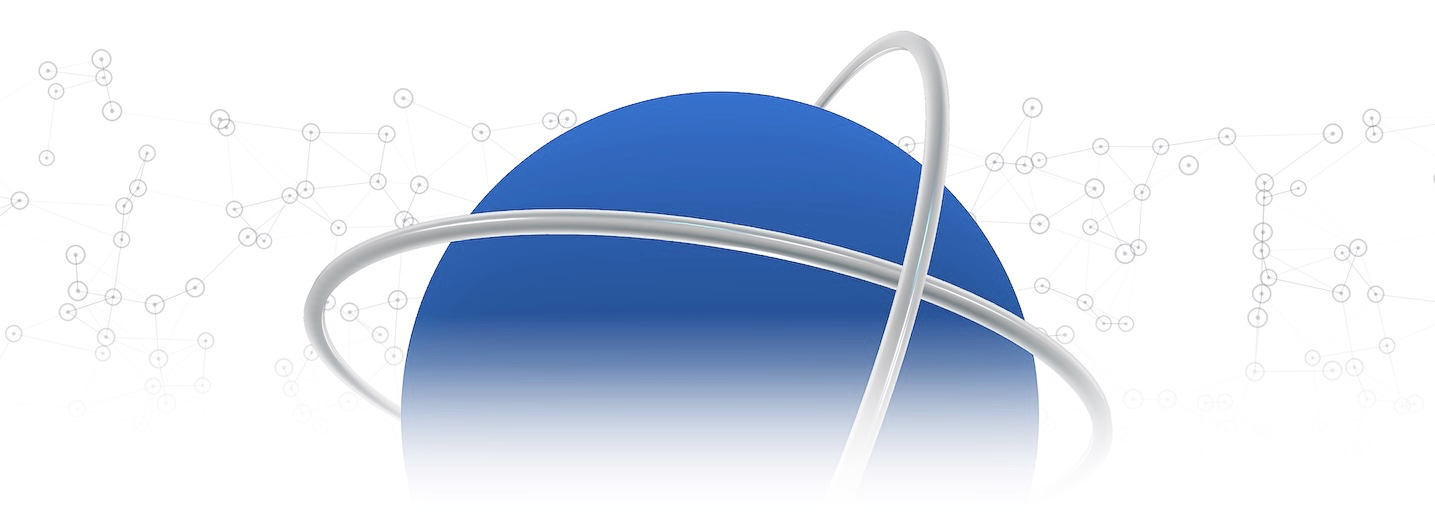
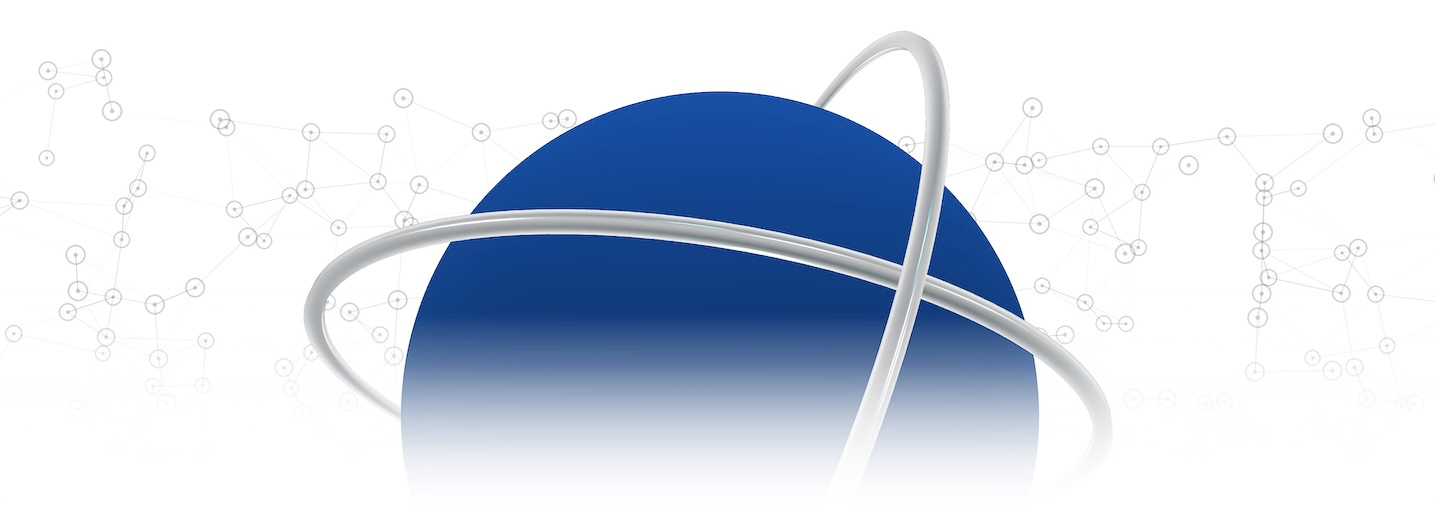
fix: match hero colors to header artwork

Changed region(s): [[0.276, 0.1553, 0.7052, 0.6835], [0.7052, 0.5903, 0.7359, 0.6214]]

diff --git a/src/components/planet-graphic/index.tsx b/src/components/planet-graphic/index.tsx
@@ -129,10 +129,11 @@ function applyPlanetTheme(
   isDark: boolean,
 ) {
   const s = refs;
-  s.sphereMat.uniforms.topColor.value.set(0x3876ce);
-  s.sphereMat.uniforms.bottomColor.value.set(isDark ? 0x112d61 : 0x153a78);
-  s.sphereMat.uniforms.glowColor.value.set(0x3876ce);
-  s.sphereMat.uniforms.fresnelIntensity.value = isDark ? 0.2 : 0.3;
+  // Dark colors follow the header's unfaded blue; light colors retain the logo palette.
+  // Interpolate in sRGB, then convert back for Three's output conversion.
+  s.sphereMat.uniforms.highlightColor.value.set(isDark ? 0x0b234c : 0x3876ce).convertLinearToSRGB();
+  s.sphereMat.uniforms.midColor.value.set(isDark ? 0x081d3c : 0x153a78).convertLinearToSRGB();
+  s.sphereMat.uniforms.shadowColor.value.set(isDark ? 0x081a37 : 0x112d61).convertLinearToSRGB();
 
   const ringColor = isDark ? 0xa4afc0 : 0xd0d8e4;
   for (const mat of [s.ringMat, s.ring2Mat]) {
@@ -423,46 +424,34 @@ export default function PlanetGraphic({
         transparent: false,
         depthWrite: true,
         uniforms: {
-          topColor: { value: new THREE.Color(0x3876ce) },
-          bottomColor: { value: new THREE.Color(isDark ? 0x112d61 : 0x153a78) },
-          glowColor: { value: new THREE.Color(0x3876ce) },
-          fresnelIntensity: { value: isDark ? 0.2 : 0.3 },
+          highlightColor: { value: new THREE.Color() },
+          midColor: { value: new THREE.Color() },
+          shadowColor: { value: new THREE.Color() },
         },
         vertexShader: `
         varying vec3 vNormal;
-        varying vec3 vPosition;
-        varying vec2 vUv;
-        
+
         void main() {
           vNormal = normalize(normalMatrix * normal);
-          vPosition = position;
-          vUv = uv;
           gl_Position = projectionMatrix * modelViewMatrix * vec4(position, 1.0);
         }
       `,
         fragmentShader: `
-        uniform vec3 topColor;
-        uniform vec3 bottomColor;
-        uniform vec3 glowColor;
-        uniform float fresnelIntensity;
-        
+        uniform vec3 highlightColor;
+        uniform vec3 midColor;
+        uniform vec3 shadowColor;
+
         varying vec3 vNormal;
-        varying vec3 vPosition;
-        varying vec2 vUv;
-        
+
         void main() {
-          float gradientFactor = (vPosition.y + 7.0) / 14.0;
-          gradientFactor = clamp(gradientFactor, 0.0, 1.0);
-          
-          vec3 baseColor = mix(bottomColor, topColor, gradientFactor);
-          
-          vec3 viewDirection = normalize(cameraPosition - vPosition);
-          float rim = 1.0 - abs(dot(vNormal, viewDirection));
-          float fresnel = rim * rim;
-          
-          vec3 finalColor = mix(baseColor, glowColor, fresnel * fresnelIntensity);
-          
-          gl_FragColor = vec4(finalColor, 1.0);
+          // logo.svg: circle (1001.7, 1006.6), radius 444;
+          // radial gradient (777.7559, 711.9921), radius 796.7305.
+          vec2 logoPosition = vec2(1001.7, 1006.6) + normalize(vNormal).xy * vec2(444.0, -444.0);
+          float gradientRadius = distance(logoPosition, vec2(777.7559, 711.9921)) / 796.7305;
+          vec3 color = mix(highlightColor, midColor, clamp((gradientRadius - 0.0324) / (0.7121 - 0.0324), 0.0, 1.0));
+          color = mix(color, shadowColor, clamp((gradientRadius - 0.7121) / (1.0 - 0.7121), 0.0, 1.0));
+
+          gl_FragColor = sRGBTransferEOTF(vec4(color, 1.0));
           #include <colorspace_fragment>
         }
       `,
